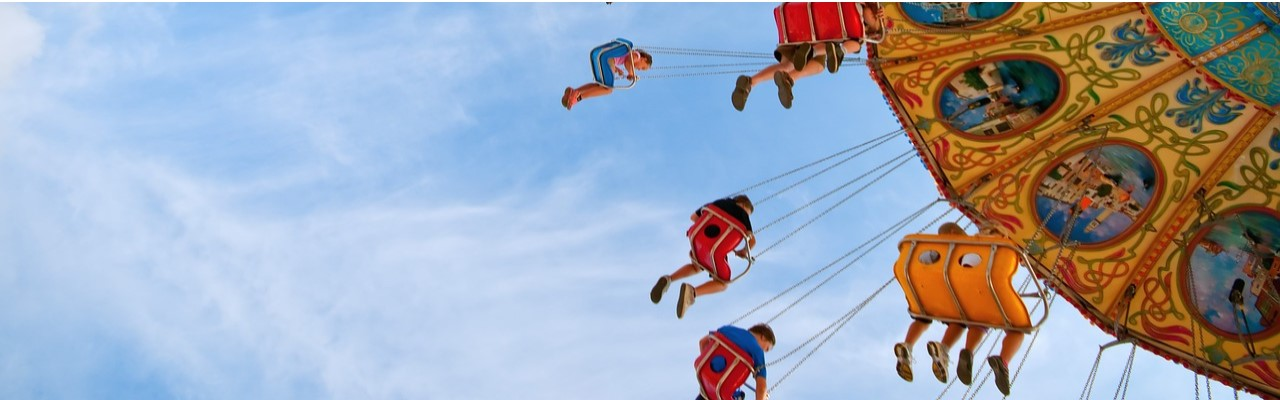
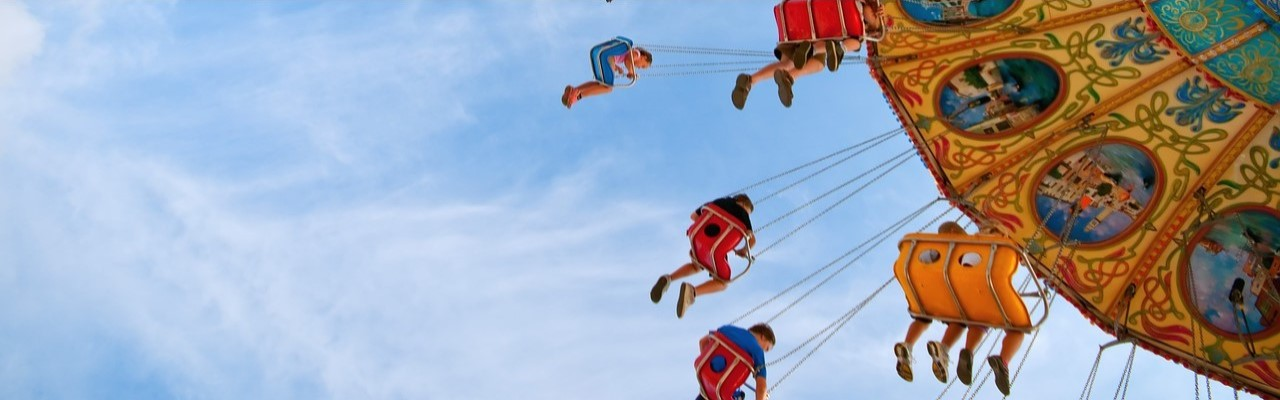
Keyframes slider image animation

diff --git a/styles/main.css b/styles/main.css
@@ -217,11 +217,29 @@ header, .impressum{
     -webkit-border-radius: 40px 10px 10px 10px;
 }
 
-
+.slider-div-parent {
+    /* padding-top: 50px; */
+	top:0;
+	bottom: 0;
+	left: 0;
+	right: 0;
+	
+	margin: auto;
+}
 
 .slider-div {
-    padding-top: 4em;
-    padding-bottom: 4em;
+    animation-name: sliderImage;
+    animation-duration: 10s;
+    animation-iteration-count: infinite;
+    /* align-self: auto; */
+    margin: auto;
+    /* position: relative; */
+}
+
+@keyframes sliderImage {
+    0%   {background-image:url("../assets/landingpage-slider-image1.jpg"); background-size: cover; background-repeat: no-repeat; height: 100%; padding-top: 20%;} 
+    50%  {background-image:url("../assets/landingpage-slider-image2.jpg"); background-size: cover; background-repeat: no-repeat; min-height: 100%; padding-top: 20%;}
+    100%   {background-image:url("../assets/landingpage-slider-image1.jpg"); background-size: cover; background-repeat: no-repeat; height: 100%; padding-top: 20%;}  
 }
 
 aside, .map {
@@ -236,7 +254,7 @@ aside, .map {
     display:flex;
     align-items: center;
     justify-content: center;
-    background-color: #1D0D2D;
+    background-color: rgb(6, 1, 12);
 }
 
 .aside-btn {margin: 2em;}
@@ -259,6 +277,11 @@ text-decoration:none;
     content: "";
     display: table;
     clear: both;
+  }
+
+  .attraction-main-div {
+    padding-top: 4em;
+    padding-bottom: 4em;
   }
 
 
@@ -416,7 +439,7 @@ address {
 
 @media screen and (max-width: 640px) {
 
-    .index-slider-image {
+    .index-slider-image, .attraction-main-image {
         width: 100%;
         height: auto;
     }
@@ -430,7 +453,7 @@ address {
         display:block;
     }
 
-    .grid-index-image, .index-slider-image {
+    .grid-index-image, .index-slider-image, .attraction-main-image {
         opacity: 0.8;
     }
 
@@ -507,7 +530,7 @@ address {
         width: 80%;
     }
 
-    .index-slider-image, .grid-index-image {
+    .index-slider-image, .grid-index-image, .attraction-main-image {
         max-width: 100%;
         height: auto;
         opacity: 0.8;
@@ -528,7 +551,7 @@ address {
         opacity: 0.9;
     }
     
-    .index-slider-image {
+    .index-slider-image, .attraction-main-image {
         /* curved corners */
         border-radius: 10px 10px 10px 10px;
         -moz-border-radius: 10px 10px 10px 10px;

diff --git a/index.html b/index.html
@@ -58,12 +58,15 @@
 <main id="main-page">
     <div class="first-section">
         <!--Slider area???-->
-        <div class="slider-div">
-            <!-- <img class="index-slider-image" src="assets/landingpage-slider-image1.jpg" alt="Image of a Swing ride" style="margin-left:auto; margin-right:auto; display:block;"> -->
-            <img class="index-slider-image" src="assets/landingpage-slider-image2.jpg" alt="Image of a Ferris Wheel" >
-            <br>
+        <div class="slider-div-parent">
+            <div class="slider-div">
+                <!-- <img class="index-slider-image" src="assets/landingpage-slider-image1.jpg" alt="Image of a Swing ride" style="margin-left:auto; margin-right:auto; display:block;"> -->
+                <!-- <img class="index-slider-image" src="assets/landingpage-slider-image2.jpg" alt="Image of a Ferris Wheel" > -->
+                <!-- <br> -->
+                <!-- <p class="index-slider-txt">Come hang with us for an 'outta this world' experience!</p> -->
+            </div><br>
             <p class="index-slider-txt">Come hang with us for an 'outta this world' experience!</p>
-        </div>
+        </div><br><br>
 
         <!-- main attractions' area -->
         <h1>Main Attractions</h1>

diff --git a/content/attraction.html b/content/attraction.html
@@ -59,8 +59,8 @@
 <main class="attraction ">
     <div class="first-section">
         <!-- This will be a slideshow once we can use CSS and Javascript-->
-        <div class = "index-hover-ride slider-div">
-            <img class= "index-slider-image" src="../assets/Atractions/longrollercoaster.jpg" alt="image example" >
+        <div class = "attraction-main-div">
+            <img class= "attraction-main-image" src="../assets/Atractions/longrollercoaster.jpg" alt="image example" >
         </div>
 
         <!-- Main Atraction -->
